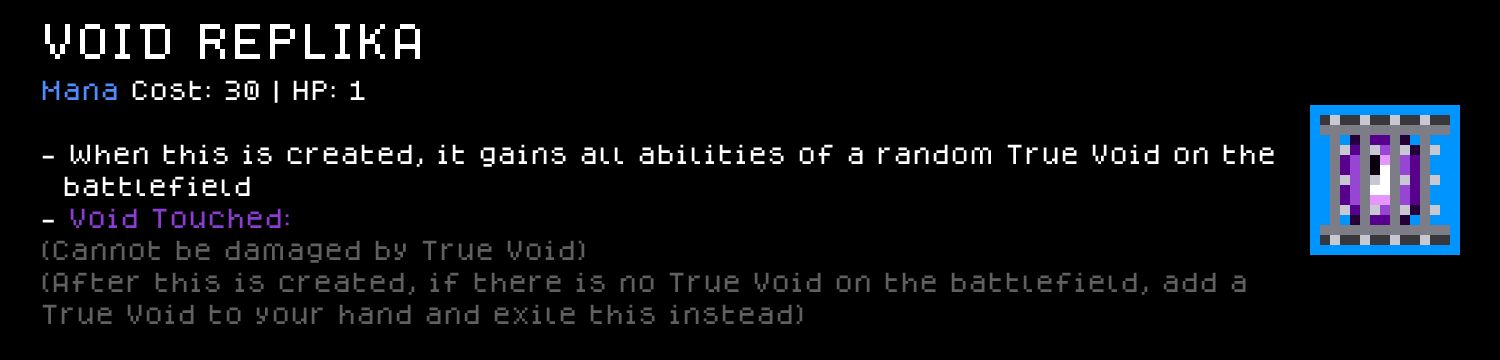
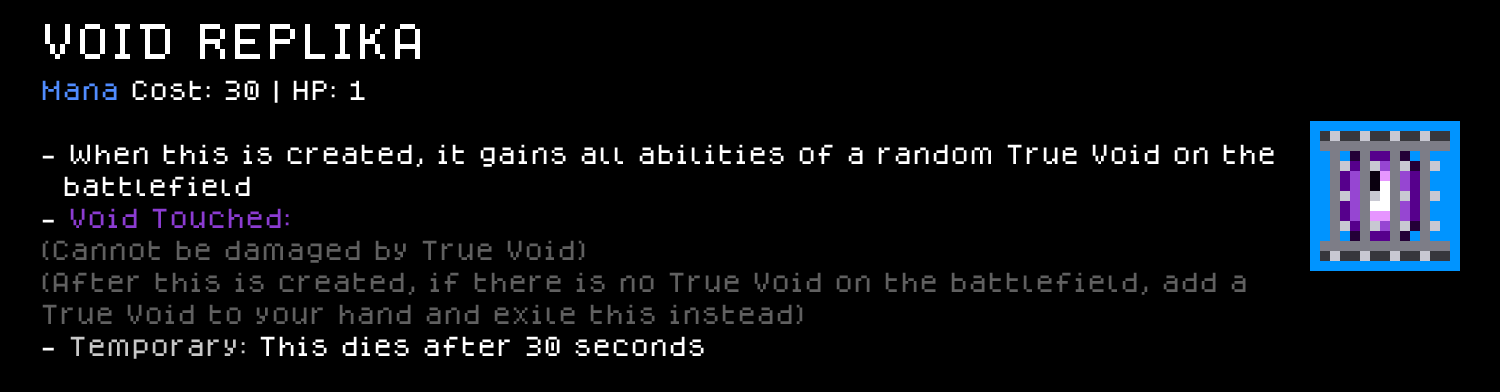
Voidling Additions/reworks

diff --git a/.claude/skills/cube-chaos-sprite-art/scripts/render_preview_cards.py b/.claude/skills/cube-chaos-sprite-art/scripts/render_preview_cards.py
@@ -652,23 +652,43 @@ def build_synergies():
     return cards
 
 
-def perks_source_basename():
-    """DJ/General name their perk file `_Perks.c.txt`; a species mod (e.g. Unholy)
-    names its equivalent `_Species.c.txt` instead -- check for either, preferring
-    `_Perks` when (implausibly) both exist."""
-    if os.path.exists(os.path.join(MOD_DIR, f"{MOD_PREFIX}_Perks.c.txt")):
-        return "Perks"
+def perks_source_basenames():
+    """DJ/General name their perk file `_Perks.c.txt`; a species mod (e.g.
+    Unholy, Voidling) folds its base species perk AND its ordinary reward
+    perks into `_Species.c.txt` instead -- `cube-chaos-mod-setup` now documents
+    this as a hard rule (a class/species's own reward perks must share ONE
+    file with its base perk, never split into a second file, since the game
+    loads .c.txt files alphabetically within a package and a reward perk's
+    `BelongsTo: <Name>` fails to resolve if its class/species hasn't been
+    parsed yet -- real incident, Voidling's Void_Growth, 2026-07-30: a separate
+    `Voidling_Perks.c.txt` sorted before `Voidling_Species.c.txt` and broke at
+    load time, fixed by merging it into the Species file instead). Both
+    basenames are still checked independently here (rather than one-or-the-
+    other) purely as defense-in-depth for whatever this function is fed --
+    a mod violating the one-file rule would otherwise silently lose one
+    basename's preview cards, the same regression this caused once already
+    before the checks were made independent."""
+    basenames = []
     if os.path.exists(os.path.join(MOD_DIR, f"{MOD_PREFIX}_Species.c.txt")):
-        return "Species"
-    return "Perks"
+        basenames.append("Species")
+    if os.path.exists(os.path.join(MOD_DIR, f"{MOD_PREFIX}_Perks.c.txt")):
+        basenames.append("Perks")
+    return basenames
 
 
 def build_perks():
-    basename = perks_source_basename()
-    blocks = parse_blocks(os.path.join(MOD_DIR, f"{MOD_PREFIX}_{basename}.c.txt"), PERK_HEADER)
-    sheet = load_sheet(f"{MOD_PREFIX}_{basename}.c.png")
-    cols = grid_cols(len(blocks))
-    name_to_idx = {b["header"].group(1): i for i, b in enumerate(blocks)}
+    basenames = perks_source_basenames()
+    # Each basename has its own file + sprite sheet + slot numbering -- keep
+    # them keyed separately rather than assuming one shared sheet/cols pair.
+    sources = {}
+    name_to_slot = {}  # perk name -> (basename, idx-within-that-basename's-sheet)
+    for basename in basenames:
+        blocks = parse_blocks(os.path.join(MOD_DIR, f"{MOD_PREFIX}_{basename}.c.txt"), PERK_HEADER)
+        sheet = load_sheet(f"{MOD_PREFIX}_{basename}.c.png")
+        cols = grid_cols(len(blocks))
+        sources[basename] = {"blocks": blocks, "sheet": sheet, "cols": cols}
+        for i, b in enumerate(blocks):
+            name_to_slot[b["header"].group(1)] = (basename, i)
 
     # Upgrades live in their own sprite-less file, matching base-game
     # convention (e.g. ZUpgradeClassPerks.c.txt) -- read it too, if present.
@@ -676,19 +696,21 @@ def build_perks():
     upgrade_blocks = parse_blocks(upgrade_path, PERK_HEADER) if os.path.exists(upgrade_path) else []
     upgrade_by_name = {b["header"].group(1): b for b in upgrade_blocks}
 
-    def resolve_icon_idx(target_name, seen=frozenset()):
+    def resolve_icon_slot(target_name, seen=frozenset()):
         # Walk the IsUpgradeFrom chain -- an upgrade can itself be the base
         # of a further upgrade (e.g. Mk3 -> Mk2 -> the real Mk1 perk) -- until
-        # landing on a name with a real slot in the main sheet.
-        if target_name in name_to_idx:
-            return name_to_idx[target_name]
+        # landing on a name with a real slot in one of the source sheets.
+        if target_name in name_to_slot:
+            return name_to_slot[target_name]
         if target_name in seen or target_name not in upgrade_by_name:
             raise KeyError(f"Cannot resolve icon: no real perk at the end of the "
                             f"IsUpgradeFrom chain starting at {target_name!r}")
         next_target = field(upgrade_by_name[target_name]["lines"], "IsUpgradeFrom:").split()[0]
-        return resolve_icon_idx(next_target, seen | {target_name})
+        return resolve_icon_slot(next_target, seen | {target_name})
 
-    def render_block(b, icon_idx):
+    def render_block(b, slot):
+        basename, idx = slot
+        src = sources[basename]
         name = b["header"].group(1)
         # A PERK's Description: is a single whole-perk field (unlike CUBE's
         # per-Ability Text:, which stacks) -- multiple Ability: lines share
@@ -698,13 +720,16 @@ def build_perks():
         desc = field(b["lines"], "Description:") or field(b["lines"], "AbilityText:")
         upgrade_of = field(b["lines"], "IsUpgradeFrom:")
         extra = [f"(Upgrade of {upgrade_of.split()[0].replace('_', ' ')})"] if upgrade_of else None
-        icon = upscale(crop_icon(sheet, icon_idx, TILE_PERK, cols, strip_guide=True), 7)
+        icon = upscale(crop_icon(src["sheet"], idx, TILE_PERK, src["cols"], strip_guide=True), 7)
         return name, render_card(pretty(name), desc, None, icon, extra_lines=extra)
 
-    cards = [render_block(b, i) for i, b in enumerate(blocks)]
+    cards = []
+    for basename in basenames:
+        for i, b in enumerate(sources[basename]["blocks"]):
+            cards.append(render_block(b, (basename, i)))
     for b in upgrade_blocks:
         base_name = field(b["lines"], "IsUpgradeFrom:").split()[0]
-        cards.append(render_block(b, resolve_icon_idx(base_name)))
+        cards.append(render_block(b, resolve_icon_slot(base_name)))
     return cards
 
 
@@ -767,12 +792,15 @@ def render_mod(mod_dir, mod_prefix):
     seen_prefixes = set()
     written = set()
     for category, builder in BUILDERS.items():
-        # "Perks" may live under a `_Species.c.txt` basename instead (see
-        # perks_source_basename) -- resolve that before the existence check.
-        basename = perks_source_basename() if category == "Perks" else category
-        txt_path = os.path.join(MOD_DIR, f"{MOD_PREFIX}_{basename}.c.txt")
-        if not os.path.exists(txt_path):
-            continue  # this mod has no content of this category -- skip it
+        # "Perks" may be spread across `_Species.c.txt` and/or `_Perks.c.txt`
+        # (see perks_source_basenames) -- skip only if neither exists.
+        if category == "Perks":
+            if not perks_source_basenames():
+                continue
+        else:
+            txt_path = os.path.join(MOD_DIR, f"{MOD_PREFIX}_{category}.c.txt")
+            if not os.path.exists(txt_path):
+                continue  # this mod has no content of this category -- skip it
         prefix = f"{MOD_PREFIX}_{category}_"
         seen_prefixes.add(prefix)
         for name, card in builder():

diff --git a/.claude/skills/cube-chaos-scripting/references/gotchas-grepped.md b/.claude/skills/cube-chaos-scripting/references/gotchas-grepped.md
@@ -40,4 +40,6 @@ conversion (TOKEN→IDENT).
 - **For a `BelongsTo: CLASS`/`SPECIES` perk's own "do something for MYSELF at the start of every battle" effect (grant a starting hand cube, run a one-time-per-battle computation over my own board state), use plain `Ability: AtTheStartOfTheBattle`, not `WorldAbility: AtTheStartOfTheBattle` — they are NOT interchangeable, confirmed by a real non-functional-in-play incident (2026-07-27), not just a parse difference.** Every real class in the base game grants its per-battle starting cube via the identical pattern, `Ability: AtTheStartOfTheBattle Both AddCubeToHandOfThis FreeCopy CubeConstant <X> RemoveThisAbility` (`Characters/Classes/*.c.txt`, all 10+ classes checked) — never `WorldAbility:`, and never `AddCubeToHandOfFactionInfinitly`/`AddCubeToHandOfFaction ... FactionOfCube Caster`. The General mod's new class-perk additions (a battle-start placement-zone-halving computation plus two hand-grants for `Claim`/`Retreat`) were first written as `WorldAbility: AtTheStartOfTheBattle` using `FactionOfCube Caster` throughout (to mean "my own side") and `AddCubeToHandOfFactionInfinitly CUBE FactionOfCube Caster` for the grants — this parsed with zero errors/warnings and looked structurally identical to real `WorldAbility:` precedent (`Main/NeutralPerks.c.txt`'s `Map_Compression`, the curses in `Main/Curses.c.txt`), but **user-confirmed in actual play: neither the halving nor the hand-grants ever happened**, while the same perk's pre-existing plain `Ability:` chains (the Strength-1-in-enemy-territory bonus) worked correctly the whole time. Every real `WorldAbility:` precedent that could be found either uses `Caster` purely as a scratch-variable holder with no faction check at all (`Map_Compression`), or is a curse checking `Victim`/`Target`'s faction, never `Caster`'s own (curses by nature target "the enemy," so they never needed "my own side" logic) — meaning there was never actually a confirmed real precedent of `WorldAbility:` + `FactionOfCube Caster` meaning "the perk owner," it was an unverified extrapolation from `Ability:`-context behavior. Switching all four affected lines from `WorldAbility:` to plain `Ability:` (keeping every other token identical, including `FactionOfCube Caster`) and switching the two hand-grants to `AddCubeToHandOfThis FreeCopy CubeConstant <X> RemoveThisAbility` fixed both effects, confirmed via the same real playtest. **Rule of thumb: `WorldAbility:` is for curses/neutral/global-scope effects that don't need "my own side" faction logic; a class/species's own self-directed per-battle behavior belongs on plain `Ability:`, even for `AtTheStartOfTheBattle`/`EveryXSeconds`-style periodic triggers that aren't reacting to a specific board event.**
 - **`XDelay DOUBLE Action` does not preserve the `Caster` binding for its delayed `Action` — every real usage anywhere in this repo only wraps bare, self-contained actions (`Die`, `Exile`, `RemoveThisAbility`), never `TargetCube Caster`/`GetVariableOnCube ... Caster`/`SetVariable`-based logic, and that gap turns out to be load-bearing, not incidental.** Real incident, the General mod's `Annex`/`Retreat` cubes (2026-07-27): first written as `Ability: AfterThisIsCreated XDelay DoubleConstant N Both <TargetCube-Caster-heavy column-claim/loss loop> Die` — parsed with zero errors, but **user-confirmed in actual play: the trailing bare `Die` fired correctly after the delay, while every `TargetCube Caster`/`GetVariableOnCube ... Caster`-based tile-ownership change inside the same delayed action silently did nothing** (Retreat died on schedule but never gave up even its own column; Annex's whole effect looked like it "wasn't ticking" at all). The fix: replace the `AfterThisIsCreated XDelay DoubleConstant N (...)` wrapper with `EveryXSeconds DoubleConstant N (...)` and drop `XDelay` entirely, keeping the rest of the chain (including the `Caster`-based loop and the trailing `Die`) byte-for-byte identical — `EveryXSeconds` has confirmed real precedent for `Caster`/variable-heavy logic (this same file's `Artillery`/`Bunker` cubes), fires its first tick at t=N not t=0 (confirmed via the base game's own `Doomed` compound, `EverySecond`+`1Shot Die` → "after 1 second this dies"), and since the effect ends in `Die` the cube can't survive to re-trigger, so no `1Shot` guard is needed. **Rule of thumb: for "wait N seconds, then run an effect that reads/writes this cube's own variables or targets `Caster`, then die," reach for `EveryXSeconds DoubleConstant N` (optionally `1Shot`-guarded if the effect *doesn't* end in `Die`), never `AfterThisIsCreated` + `XDelay`** — `XDelay` is confirmed safe only for delaying a bare terminal action with no `Caster`/variable dependency.
 - **`EveryCubeWhich BOOLEAN Action`: use `Test` to refer to the loop candidate inside the Action body, not `Target`, despite `Test`/`Target` being documented elsewhere as interchangeable.** Every proven-working real usage of `EveryCubeWhich` in this repo (`Voidling_Cubes.c.txt`'s `Calm_The_Waves`, `Voidling_Species.c.txt`'s `VoidReachSurge`) binds the candidate via `Test` inside the Action body too, not just the BOOLEAN predicate — `EveryCubeWhich CubeHasName Test True_Void TargetCube Test GainAbility ...`. Real incident, the Voidling mod's `Void_Warrior`: a "scan every True Void, track the highest `VoidExpansionX` stacking seen" loop written with `GetStackingOfAbilityOnCube VoidExpansionX Target` (instead of `Test`) inside the loop's `Action` body parsed with zero errors, but **user-confirmed in actual play: it always computed 0 even with a True Void on the battlefield holding 3 stacks of Void Reach** — consistent with `Target` there silently resolving to `Caster` (the newly-created cube itself, which genuinely has 0) rather than the loop's iterated candidate. Switching both occurrences of `Target` to `Test` (no other change) is the fix applied; not confirmed by isolation testing against a minimal repro, but it now matches every other real `EveryCubeWhich` usage in the codebase and directly explains the observed symptom. Treat the "Test/Target are interchangeable" claim in this skill's Implicit target resolution section as unproven specifically for `EveryCubeWhich`'s own Action-body binding until a counter-example is found — default to `Test` there regardless of nesting depth.
+- **The "Temporary:" keyword header a player sees in a tooltip is the built-in `DieAfterX TIME` ability, not something separately named `Temporary` in the DSL** — easy to miss since `ModdingInfo.txt` lists it under `DieAfterX`, and the only place the word "Temporary" itself appears is (a) `DieAfterX`'s own doc string, `\C200 200 200 Temporary: \CN This dies after CODE 1` (`ModdingInfo.txt:107`), and (b) a separate hover-glossary entry, `Base_Core/ToolTipText.c.txt:88`'s `TEXTTOOLTIP: TEMPORARY` ("kills the cube after X time, the timer restarts if the death is prevented") — a glossary popup shown when hovering the colored word "Temporary" in any tooltip, not an invocable ability of its own. There is no standalone `Ability: Temporary`/`COMPOUND: ABILITY Temporary` anywhere in the base game or any mod — grepping for one returns nothing. **To grant "this cube expires after N seconds" (the actual base-game "Temporary" keyword), use `Ability: DieAfterX <ticks>` directly** — it's a stock built-in with its own tooltip, so it needs no local `Text:`. A silent variant, `SilentDieAfterX TIME` ("dies after CODE 1 without triggering anything"), exists too for when the expiry shouldn't fire on-death reactions. Real usage, the Voidling mod's `Void_Replika` (`Voidling_Cubes.c.txt`): initially over-built as a custom `EveryXSeconds`+`RemoveAbilityWithName`-per-ability chain to strip a copied True Void's 5 abilities back off after 30 seconds — the user pointed out this was reinventing the wheel and the whole cube should just die after 30 seconds instead, fixed to a single `Ability: DieAfterX <N>` line with the elaborate strip-chain deleted entirely. **When a request says a cube/effect should be "temporary" for N seconds, check whether the cube itself expiring (`DieAfterX`) is the actually-intended design before building a custom per-ability reversal mechanism** — the custom route is only warranted when specific abilities need to peel off while the cube keeps living.
+  - **`TIME`-typed arguments (`DieAfterX`, `ChargeEveryX`, `HomingX`, `FleeEveryX`, `EveryXMeleeY`, `RandomMovementX`, `ProjectileX`, `TransformX`, etc.) are in TICKS at 60 ticks per real-world second, NOT literal seconds — a genuinely different unit from the `DOUBLE`-typed duration arguments (`EveryXSeconds DoubleConstant N`, `Cooldown DoubleConstant N`), which this same file already documents as plain real seconds.** Confirmed by real user playtest, not inference: `Void_Replika`'s first attempt used `Ability: DieAfterX 30` intending 30 real seconds — the cube actually died after 0.5 seconds in play, i.e. exactly `30 ÷ 60`. Fixed to `Ability: DieAfterX 1800` (`30 × 60`) for the intended 30-second lifespan. This also retroactively explains why real base-game `TIME` values look huge next to `DoubleConstant`-second values for comparable effects — e.g. DJ's `Note` token (`DJ_Cubes.c.txt`) has `DieAfterX 7200` (7200÷60 = 120s = a 2-minute safety-net expiry for a homing projectile) and `HomingX 60` (60÷60 = 1s retarget interval); General's `Shot` has `DieAfterX 300` (5s) and `ChargeEveryX 15` (0.25s, a fast bullet). **Always divide/multiply by 60 when converting between a `TIME` argument and a real-seconds duration a user asked for** — never copy a `DoubleConstant`-seconds value straight into a `TIME` slot or vice versa, they are not interchangeable units despite both ultimately meaning "a duration." (Ticks-per-second confirmed as exactly 60 by this one data point; if a future measurement ever disagrees, trust the newer measurement and correct this note.)
 - **`RemoveThisAbility` on an `Ability:`/`WorldAbility:` line does NOT persist across battles — it only suppresses re-triggering within the current battle. A `PERK:`'s `Ability:` chains are re-evaluated fresh from the static `.c.txt` definition every single battle, so anything "removed" via `RemoveThisAbility` is back and fully active again next battle.** This directly contradicts an earlier (wrong) version of this same entry, which claimed a self-removing `AtTheStartOfTheBattle Both RemoveThisAbility ChangeCampaignVariable <NAME> DoubleConstant 1` fires "exactly once ever." **Real incident, the General mod (2026-07-27): this exact pattern was used to register one stack of a class perk into `GENERAL_FRONTLINE_STACKS`, intended to add +1 once per run** — instead it added +1 *every single battle* (user-observed in actual play: the effect it drove compounded battle over battle, 1/2 → 1/4 → 1/8 of the board, instead of staying fixed at 1/2). Re-reading the real precedent this was copied from (`Curse_Of_Shields`) shows why it looked right but wasn't: that curse's "`+100` via a `RemoveThisAbility`-guarded `WorldAbility`" is paired with a *separate* `WorldAbility: AfterEndOfTheBattle SetCampaignVariable ENEMY_SHIELDS DoubleConstant 0` that resets the variable to 0 at the end of every battle — so its "+100 at battle start" is genuinely meant to re-fire every battle (100 fresh shield HP per battle), and the `RemoveThisAbility` there is just a same-battle re-trigger guard, never evidence of true once-per-run persistence. **There is no confirmed way to make an `Ability:`/`WorldAbility:` trigger fire only once for the whole run.** The real one-time-per-acquisition mechanism is **`ObtainAction:`** — it fires exactly once, when the perk itself is gained (class selection, chest pickup, etc.), never again on subsequent battles, confirmed by dozens of real base-game examples (`ObtainAction: ChangeCampaignVariable <NAME> DoubleConstant N`, e.g. `Main/Perks.c.txt:971`, `Main/GoldenPerks.c.txt:122`, `Characters/Species/Moil.c.txt:63`, and this exact perk's own pre-existing `ObtainAction: AddCubeToInventory CubeConstant Bunker` lines). **For a `PERK:`-level effect that needs to "stack" across potentially multiple independent sources** (the base perk plus some future separate upgrade/synergy perk), use `ObtainAction: ChangeCampaignVariable <NAME> DoubleConstant 1` on each contributing perk instead — genuinely fires once per acquisition, not once per battle. The actual per-battle *effect* that reads the accumulated count (`GetCampaignVariable <NAME>`) stays a separate, always-active `Ability: AtTheStartOfTheBattle` (recomputed fresh every battle from the live count, no `RemoveThisAbility` involved at all) — see the territory-halving idiom in `references/targeting-movement-board.md` for the full worked example (General mod's `GENERAL_FRONTLINE_STACKS`), now fixed to use `ObtainAction:` for the registration half.

diff --git a/.claude/skills/cube-chaos-mod-setup/SKILL.md b/.claude/skills/cube-chaos-mod-setup/SKILL.md
@@ -84,6 +84,10 @@ Prefix every file with your mod's name (`DJ_Perks.c.txt`, `DJ_Cubes.c.txt`, `DJ_
 
 **Every other perk-family category (Curse, Consumable, Blight, Boon, Golden, Neutral) also gets its own `<ModPrefix>_<Category>.c.txt` file with its own matching `Sprites/<ModPrefix>_<Category>.c.png`, never mixed into `<ModPrefix>_Perks.c.txt`** — the same one-category-per-file discipline as the `IsUpgradeFrom:` rule above, just generalized to every category, not just upgrades. This mirrors the base game's own layout (`Main/Consumables.c.txt`, `Characters/Sprites/Curses.c.png`, etc. are always their own files, never appended to `Main/Perks.c.txt`) and this repo's own DJ mod (`DJ_Curses.c.txt`, `DJ_Consumables.c.txt`, separate from `DJ_Perks.c.txt`). **Real incident, the General mod (2026-07-27):** two new `BelongsTo: Consumable` perks (`Moral_Booster`, `War_Supply`) were first written straight into `General_Perks.c.txt` (which otherwise holds only `BelongsTo: General`/`BelongsTo: CLASS` reward perks) — user caught it and asked for the DJ-style split, requiring the two `PERK:` blocks to be moved into a new `General_Consumables.c.txt`, their sprite tiles relocated from `General_Perks.c.png`'s next two slots (cleared back to plain background) into a fresh 2-tile `General_Consumables.c.png`, and the mod's own `Description` file updated with the matching `Tag: Consumables` line (see the `Tag:` list a few paragraphs up — a category getting its own file and getting its own Workshop `Tag:` are two halves of the same "this category is a first-class thing in this mod" signal, do both together). Decide the category-vs-plain-reward-perk split *before* writing the `PERK:` block and its sprite slot, the same way file-basename and name-collision checks happen before writing, not after — retrofitting it means moving both DSL text and sprite pixels.
 
+## A class/species's own base perk and its ordinary `BelongsTo: <ThatName>` reward perks must live in ONE file, never split
+
+`.c.txt` files within a single mod package appear to load in alphabetical-by-filename order (not `.c.txt` file-list/declaration order — there's no such list, just whatever's on disk), and a `PERK:`'s `BelongsTo: <ClassOrSpeciesName>` reference needs that class/species to already be registered (i.e. its own `BelongsTo: CLASS`/`BelongsTo: SPECIES` perk already parsed) at the point the referencing perk is parsed. **Real incident, the Voidling mod (2026-07-30):** a new reward perk (`Void_Growth`, `BelongsTo: Voidling`) was put in a freshly-created `Voidling_Perks.c.txt`, separate from the species' own base `PERK: Voidling` / `BelongsTo: SPECIES` in the pre-existing `Voidling_Species.c.txt`. Load failed with `ERROR: Perk Void_Growth belongsTo Voidling can't be determined` — caused purely by alphabetical ordering: `Voidling_Perks.c.txt` (`...Pe...`) sorts before `Voidling_Species.c.txt` (`...Sp...`), so the species wasn't registered yet when `Void_Growth` was parsed. Confirmed by cross-checking every real base-game/mod precedent: **every class/species's base perk and its plain reward perks always live in the SAME file** — DJ's `PERK: DJ` (`BelongsTo: CLASS`) and its reward perks (`Echo`, `Symphony`, `Bass_Drop`, etc., all `BelongsTo: DJ`) all share one `DJ_Perks.c.txt`; Unholy's base `PERK: Unholy` and its reward perks (`Hell_Dragon_Egg`, `Phylactery`, `Mutations`) all share `Unholy_Species.c.txt` — there is no real example anywhere of a mod splitting these across two files. **Fix: always add a new `BelongsTo: <ThatClassOrSpecies>` reward perk into whichever single file already holds that class/species's own base `BelongsTo: CLASS`/`SPECIES` perk** (named `<ModPrefix>_Perks.c.txt` for a DJ/General-style mod, `<ModPrefix>_Species.c.txt` for a Unholy/Voidling-style species mod — check which basename the mod already uses, never assume `_Perks.c.txt` by default). This is a different rule from the category-split rule above (Curse/Blight/Consumable/etc. each getting their own file) — those are genuinely separate perk *categories* with no `BelongsTo:` cross-reference to the class/species at all, so no load-order dependency exists between them; a class/species's own reward perks are a special case specifically because of the `BelongsTo:` name resolution, and splitting them can silently work or silently fail purely based on where the two filenames happen to sort alphabetically. `IsUpgradeFrom:` perks are still the one legitimate exception (their own `<ModPrefix>_UpgradePerks.c.txt`, per the rule above) since an upgrade never carries `BelongsTo:` at all (see `cube-chaos-scripting/references/perk-economy.md`) — nothing there depends on the class/species being registered first.
+
 ## `CUBE:`/`PERK:` *name* collisions — a different bug from the filename collision above, same silent shape
 
 The filename collision above is about two `.c.txt` files sharing a basename; this is about two `CUBE:`/`PERK:` blocks (in totally differently-named files) sharing the same *name* token — e.g. `CUBE: Claim` in a mod package when the base game already has its own unrelated `CUBE: Claim` (`Main/3GeneralCubes.c.txt`). **Real incident, the General mod (2026-07-27):** a new 0-mana territory-control cube was named `Claim`, not realizing the base game already has a real, obtainable `Claim` (35 mana, "convert the neutral cube below to your faction") in `Main/3GeneralCubes.c.txt`. Every `CubeConstant Claim` reference (the class perk's own hand-grant, in this exact mod) silently resolved to the *base game's* `Claim` instead — no parse error, no load warning, the mod's own `CUBE: Claim` block loaded fine and just was never reachable by name. This is what made it look, from the outside, like the granted cube already had "real art" (it did — it was the base game's fully-illustrated `Claim`, a completely different cube) while behaving nothing like what was written. **Before naming any new `CUBE:`/`PERK:`, grep the whole `GameData` tree for that exact name** (`CUBE: YourProposedName\b` / `PERK: YourProposedName\b`) — scoped per-subfolder (`GameData/Main`, `GameData/Base_Core`, `GameData/Characters`, `GameData/Extra_Mechanics`, plus every other mod folder), not a single whole-tree grep, since this repo's grep tool can silently return zero results when scoped to the full `GameData` directory (the install path's space is the suspected cause — see the debugging-checklist note below). Fixed here by renaming to `Annex`, confirmed collision-free the same way. This check belongs at the same point as picking a new file basename — both are "pick a name, grep first" habits, just checking a different string.

diff --git a/GameData/Voidling/README.md b/GameData/Voidling/README.md
@@ -16,6 +16,8 @@ Each card below is rendered to match the game's own in-game tooltip style (same 
 ### Perks
 
 <img src="Preview/Voidling_Perks_Voidling.png" width="700" alt="Voidling species perk card">
+<img src="Preview/Voidling_Perks_Void_Growth.png" width="700" alt="Void Growth perk card">
+<img src="Preview/Voidling_Perks_Boundless_Void.png" width="700" alt="Boundless Void upgrade perk card">
 
 ## Installing this mod (to play it)
 
